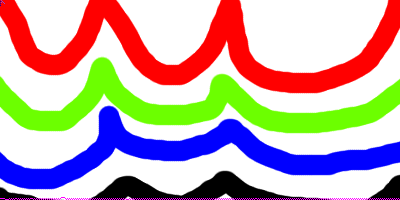
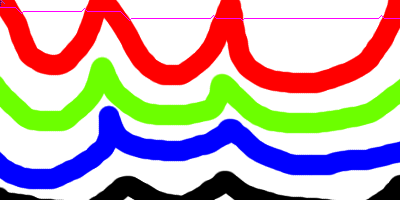
got seam carving working :) at least horizontally :)

diff --git a/monkey/imagematrix.go b/monkey/imagematrix.go
@@ -3,7 +3,6 @@ package monkey
 import "image/color"
 import "log"
 import "math"
-import "fmt"
 
 //
 // Point is a particular pixel position in an image
@@ -162,84 +161,6 @@ func (im ImageMatrix) ApplyConvolutionFunction(cm ConvolutionMatrix, conFunc fun
 }
 
 //
-//
-//
-func applyConvolutionToPixel(im ImageMatrix, x int, y int, cmSize int, column []color.RGBA, cm ConvolutionMatrix, conFunc func(ImageMatrix, int, int, int, int, color.RGBA, float64) int) {
-	currentColour := im[x][y]
-	redTotal := 0
-	greenTotal := 0
-	blueTotal := 0
-	weight := 0
-
-	kernelMatrix := im.GetKernelMatrix(x, y, cmSize)
-
-	for i, kernelColumn := range kernelMatrix {
-		for j, kernelPixelColour := range kernelColumn {
-
-			// get the distance of the current pixel compared to the centre of the kernel
-			// the centre one is the one we are modifying and saving to a new image/matrix of course...
-			distance := math.Sqrt(math.Pow(float64(cmSize-i), 2) + math.Pow(float64(cmSize-j), 2))
-
-			// Call the function the user passed and get the return weight of how much influence
-			// it should have over the centre pixel we want to change
-			// We are multipling it by the weight in the convolution matrix as that way you can
-			// control an aspect of the weight through the matrix as well (as well as the function that
-			// we pass in of course :)
-			cmValue := conFunc(im, x, y, i, j, kernelPixelColour, distance) * int(cm[i][j])
-
-			// apply the influence / weight ... (eg. if cmValue was 0, then the current pixel would have
-			// no influence over the pixel we are changing, if it was large in comparision to what we return
-			// for the other kernel pixels, then it will have a large influence)
-			redTotal += int(kernelPixelColour.R) * cmValue
-			greenTotal += int(kernelPixelColour.G) * cmValue
-			blueTotal += int(kernelPixelColour.B) * cmValue
-			weight += cmValue
-		}
-	}
-
-	// If the convolution matrix normalised itself; aka, say it was something like:
-	//                                                                             { 0 -1  0}
-	//                                                                             {-1  4 -1}
-	//                                                                             { 0 -1  0}
-	// then adding the entries (4 + (-1) + (-1) + (-1) + (-1)) results in a zero, in which case we leave
-	// the weights alone (by setting the weight to divide by to 1) (aka, the weights do not have an impact,
-	// but the pixels with a weight more more or less than 0 still do have an impact on the pixel
-	// we are changing of course)
-	if weight == 0 {
-		weight = 1
-	}
-
-	// Normalise the values (based on the weight (total's in the matrix))
-	newRedValue := redTotal / weight
-	newGreenValue := greenTotal / weight
-	newBlueValue := blueTotal / weight
-
-	// If the values are "out of range" (outside the colour range of 0-255) then set them to 0 (absence of that
-	// colour) if they were negative or 255 (100% of that colour) if they were greater than the max allowed.
-	if newRedValue < 0 {
-		newRedValue = 0
-	} else if newRedValue > 255 {
-		newRedValue = 255
-	}
-
-	if newGreenValue < 0 {
-		newGreenValue = 0
-	} else if newGreenValue > 255 {
-		newGreenValue = 255
-	}
-
-	if newBlueValue < 0 {
-		newBlueValue = 0
-	} else if newBlueValue > 255 {
-		newBlueValue = 255
-	}
-
-	// Assign the new values to the pixel in the column 'column' at position y
-	column[y] = color.RGBA{uint8(newRedValue), uint8(newGreenValue), uint8(newBlueValue), currentColour.A}
-	// fmt.Printf("[%v,%v] %v => %v\n", x, y, currentColour, column[y])
-}
-
-//
 // GetWidth returns the height of the image
 //
 func (im ImageMatrix) GetWidth() int {
@@ -255,54 +176,52 @@ func (im ImageMatrix) GetHeight() int {
 
 //
 // SeamCarveHorizontal will carve the imagematrix by 1 pixel horizontally
+// *****************************************************************************
+// *****************************************************************************
+// TODO: We need to make this generic and do hozizontal and vertical of course, but for now we have just done
+//       it this way to test it out...
+//       Also, currently we colour the seam pink, but we should delete the seam from the image (carve it,
+//       as "seam carving" implies)
+//       Also, the depth is currently hardcoded, it should be possible to change this - but we are laving
+//       it hardcoded for now because if we enter larger numbers, it can take a long long time to process...
+// *****************************************************************************
+// *****************************************************************************
 //
 func (im ImageMatrix) SeamCarveHorizontal() ImageMatrix {
 	height := im.GetHeight()
 	width := im.GetWidth()
 
-	depth := 5
+	depth := 3
 	var seam Path
 
 	var startingPathOptions []Path
 	var paths []Path
 
-	for j := 0; j < height - 1; j++ {
-		paths = im.getPathsHorizontal(Path{Point{0,j}}, depth)
-		path := im.getLowestEnergyPath(paths)
+	// get the starting seam by going through all options that start in the first column (x=0) and getting
+	// the best possible path to start with
+	for j := 0; j < height; j++ {
+		paths = im.GetPathsHorizontal(Path{Point{0,j}}, depth)
+		path := im.GetLowestEnergyPath(paths)
 		startingPathOptions = append(startingPathOptions, path)
 	}
 
-	// // paths := im.getPathsHorizontal(Path{Point{0, 190}}, depth)
-	// paths := im.getPathsHorizontal(Path{Point{0, 22}}, depth)
+	seam = im.GetLowestEnergyPath(startingPathOptions)
 
-	// for _, p := range paths {
-	// 	debug("Starting Path Options: ", p)
-	// }
-	//
-	// // fmt.Println("Starting path options are: ", paths)
-	// debug("===================================================================================================")
-
-	startingPathOptions = []Path{im.getLowestEnergyPath(paths)}
-
-	seam = im.getLowestEnergyPath(startingPathOptions)
-
+	// while we have not got the end-to-end seam from left to right (till the width of the image), keep adding
+	// to the seam...
 	for len(seam) < width {
-
 		if len(seam)+depth > width {
 			depth = width - len(seam)
 		}
 
-		// debug("========================================", seam)
-
-		paths := im.getPathsHorizontal(seam, depth)
-		lowestEnergyPath := im.getLowestEnergyPath(paths)
+		paths := im.GetPathsHorizontal(seam, depth)
+		lowestEnergyPath := im.GetLowestEnergyPath(paths)
 		seam = lowestEnergyPath
-
 	}
 
-	//
-	newImage := im
 
+	// generate a new image (we don't want to modify the original image)
+	newImage := im
 	for _, point := range seam {
 		newImage[point.x][point.y] = color.RGBA{255, 0, 255, 255}
 	}
@@ -314,14 +233,11 @@ func (im ImageMatrix) SeamCarveHorizontal() ImageMatrix {
 }
 
 //
-// GetEnergyOfPixel returns the "energy" of a pixel - that is, the more different it is from it's surrounding
+// GetEnergyOfPoint returns the "energy" of a pixel - that is, the more different it is from it's surrounding
 // pixels, the higher it's energy
 //
-func (im ImageMatrix) GetEnergyOfPixel(x, y int) float64 {
-
-	// fmt.Println("START", x, y)
+func (im ImageMatrix) GetEnergyOfPoint(x, y int) float64 {
 	cc := im[x][y] // centre colour (the pixel we are trying to get the enery for)
-	// fmt.Println("END")
 
 	kernelMatrix := im.GetKernelMatrix(x, y, 1)
 	numBins := 0 // the number of bins (pixels) we will be comparing our central pixel to...
@@ -339,21 +255,24 @@ func (im ImageMatrix) GetEnergyOfPixel(x, y int) float64 {
 			// We should be doing the weight according to the Alpha channel... the close to 0 it is, the
 			// less the energy should be (as we want transparent pixels to not add much energy at all)
 			numBins++
-			energy += math.Abs(float64(cc.R - c.R))
-			energy += math.Abs(float64(cc.G - c.G))
-			energy += math.Abs(float64(cc.B - c.B))
-			energy += math.Abs(float64(cc.A-c.A)) * 3
+			energy += math.Abs(math.Abs(float64(cc.R) - float64(c.R)))
+			energy += math.Abs(math.Abs(float64(cc.G) - float64(c.G)))
+			energy += math.Abs(math.Abs(float64(cc.B) - float64(c.B)))
+			energy += math.Abs(math.Abs(float64(cc.A) - float64(c.A))) * 3
 		}
+
 	}
 
 	energy = energy / float64(numBins)
+	// debug("Energy of point:", x, y, energy)
 
 	// log.Printf("Energy=%v, Bins=%v x=%v y=%v", energy, numBins, x, y)
 	// debugPrintMatrix(kernelMatrix)
 	return energy
 }
 
-func (im ImageMatrix) getPathsHorizontal(path Path, depth int) []Path {
+func (im ImageMatrix) GetPathsHorizontal(path Path, depth int) []Path {
+	// debug("Need to find next path options for:", path)
 	var paths []Path
 	height := im.GetHeight()
 	width := im.GetWidth()
@@ -362,27 +281,35 @@ func (im ImageMatrix) getPathsHorizontal(path Path, depth int) []Path {
 
 	// debug("x, y", x, y)
 
+	// debug("Path we were passed in is", path)
+
 	if depth == 1 {
 		if x+1 < width {
-			pathWithRightPixel := append(path, Point{x + 1, y})
-			paths = append(paths, pathWithRightPixel)
+			pathWithRightPoint := make(Path, len(path))
+			copy(pathWithRightPoint, path)
+			pathWithRightPoint = append(pathWithRightPoint, Point{x+1,y})
+			paths = append(paths, pathWithRightPoint)
 		}
 
 		if x+1 < width && y-1 >= 0 {
-			pathWithdiagonalUpPixel := append(path, Point{x + 1, y - 1})
-			paths = append(paths, pathWithdiagonalUpPixel)
+			pathWithDiagonalUpPoint := make(Path, len(path))
+			copy(pathWithDiagonalUpPoint, path)
+			pathWithDiagonalUpPoint = append(pathWithDiagonalUpPoint, Point{x+1, y-1})
+			paths = append(paths, pathWithDiagonalUpPoint)
 		}
 
 		if x+1 < width && y+1 < height {
-			pathWithDiagonalDownPixel := append(path, Point{x + 1, y + 1})
-			paths = append(paths, pathWithDiagonalDownPixel)
+			pathWithDiagonalDownPoint := make(Path, len(path))
+			copy(pathWithDiagonalDownPoint, path)
+			pathWithDiagonalDownPoint = append(pathWithDiagonalDownPoint, Point{x+1,y+1})
+			paths = append(paths, pathWithDiagonalDownPoint)
 		}
-
-		// } else if (depth > 1 && x+1 <= width) {
 	} else if depth > 1 {
 		if x+1 < width {
-			pathWithRightPixel := append(path, Point{x + 1, y})
-			rightPaths := im.getPathsHorizontal(pathWithRightPixel, depth-1)
+			pathWithRightPoint := make(Path, len(path))
+			copy(pathWithRightPoint, path)
+			pathWithRightPoint = append(pathWithRightPoint, Point{x + 1, y})
+			rightPaths := im.GetPathsHorizontal(pathWithRightPoint, depth-1)
 
 			for _, rightPath := range rightPaths {
 				paths = append(paths, rightPath)
@@ -390,8 +317,10 @@ func (im ImageMatrix) getPathsHorizontal(path Path, depth int) []Path {
 		}
 
 		if x+1 < width && y-1 >= 0 {
-			pathWithDiagonalUpPixel := append(path, Point{x + 1, y - 1})
-			diagonalUpPaths := im.getPathsHorizontal(pathWithDiagonalUpPixel, depth-1)
+			pathWithDiagonalUpPoint := make(Path, len(path))
+			copy(pathWithDiagonalUpPoint, path)
+			pathWithDiagonalUpPoint = append(pathWithDiagonalUpPoint, Point{x + 1, y - 1})
+			diagonalUpPaths := im.GetPathsHorizontal(pathWithDiagonalUpPoint, depth-1)
 
 			for _, diagonalUpPath := range diagonalUpPaths {
 				paths = append(paths, diagonalUpPath)
@@ -399,8 +328,10 @@ func (im ImageMatrix) getPathsHorizontal(path Path, depth int) []Path {
 		}
 
 		if x+1 < width && y+1 < height {
-			pathWithDiagonalDownPixel := append(path, Point{x + 1, y + 1})
-			diagonalDownPaths := im.getPathsHorizontal(pathWithDiagonalDownPixel, depth-1)
+			pathWithDiagonalDownPoint := make(Path, len(path))
+			copy(pathWithDiagonalDownPoint, path)
+			pathWithDiagonalDownPoint = append(pathWithDiagonalDownPoint, Point{x + 1, y + 1})
+			diagonalDownPaths := im.GetPathsHorizontal(pathWithDiagonalDownPoint, depth-1)
 
 			for _, diagonalDownPath := range diagonalDownPaths {
 				paths = append(paths, diagonalDownPath)
@@ -408,39 +339,33 @@ func (im ImageMatrix) getPathsHorizontal(path Path, depth int) []Path {
 		}
 	}
 
-	// fmt.Println("Returning path", path)
-
 	return paths
 }
 
-func (im ImageMatrix) getEnergyForPath(path Path) float64 {
+func (im ImageMatrix) GetEnergyOfPath(path Path) float64 {
 	pathEnergy := 0.0
 
 	for _, point := range path {
-		pathEnergy += im.GetEnergyOfPixel(point.x, point.y)
+		pathEnergy += im.GetEnergyOfPoint(point.x, point.y)
 	}
 
 	return pathEnergy
 }
 
-func (im ImageMatrix) getLowestEnergyPath(paths []Path) Path {
-
+func (im ImageMatrix) GetLowestEnergyPath(paths []Path) Path {
 	lowestEnergyPath := paths[0]
+	lowestEnergy := im.GetEnergyOfPath(lowestEnergyPath)
 
 	for _, path := range paths {
-		pathEnergy := im.getEnergyForPath(path)
-		// debug("energy for path", pathEnergy)
-		// debug("path is ", path)
-		// debug("energy was", pathEnergy)
-		if pathEnergy < im.getEnergyForPath(lowestEnergyPath) {
+		pathEnergy := im.GetEnergyOfPath(path)
+
+		if pathEnergy < lowestEnergy {
 			lowestEnergyPath = path
+			lowestEnergy = pathEnergy
 		}
+
+
 	}
 
 	return lowestEnergyPath
-
-}
-
-func debug(v ...interface{}) {
-	fmt.Println(v...)
 }

diff --git a/main.go b/main.go
@@ -34,20 +34,20 @@ func main() {
 		monkey := monkey.LoadImageFromFile(filepath.Join(sourceDir, sourceFile))
 		destDir := filepath.Join(autogeneratedDir, sourceFile)
 
-		// runMod(modSwapRGBtoGBR, destDir, monkey.ImageMatrix())
-		// runMod(modGreyscaleAverageWithTranslusence, destDir, monkey.ImageMatrix())
-		// runMod(modBlur, destDir, monkey.ImageMatrix(), 8)
-		// runMod(modBlurWithKernelMethod, destDir, monkey.ImageMatrix(), 8)
-		// runMod(modGaussianBlur, destDir, monkey.ImageMatrix())
-		// runMod(modAverageBlur, destDir, monkey.ImageMatrix())
-		// runMod(modApplyConvolutionWithSampleFunction, destDir, monkey.ImageMatrix())
-		// runMod(modApplyFunctionToEveryPixelExample, destDir, monkey.ImageMatrix())
-		// runMod(modSharpen, destDir, monkey.ImageMatrix())
-		// runMod(modEdgeDetect, destDir, monkey.ImageMatrix())
-		// runMod(modEmboss, destDir, monkey.ImageMatrix())
-		// runMod(modIdentity, destDir, monkey.ImageMatrix())
-		// runMod(modPlayOne, destDir, monkey.ImageMatrix())
-		// runMod(modPlayTwo, destDir, monkey.ImageMatrix())
+		runMod(modSwapRGBtoGBR, destDir, monkey.ImageMatrix())
+		runMod(modGreyscaleAverageWithTranslusence, destDir, monkey.ImageMatrix())
+		runMod(modBlur, destDir, monkey.ImageMatrix(), 8)
+		runMod(modBlurWithKernelMethod, destDir, monkey.ImageMatrix(), 8)
+		runMod(modGaussianBlur, destDir, monkey.ImageMatrix())
+		runMod(modAverageBlur, destDir, monkey.ImageMatrix())
+		runMod(modApplyConvolutionWithSampleFunction, destDir, monkey.ImageMatrix())
+		runMod(modApplyFunctionToEveryPixelExample, destDir, monkey.ImageMatrix())
+		runMod(modSharpen, destDir, monkey.ImageMatrix())
+		runMod(modEdgeDetect, destDir, monkey.ImageMatrix())
+		runMod(modEmboss, destDir, monkey.ImageMatrix())
+		runMod(modIdentity, destDir, monkey.ImageMatrix())
+		runMod(modPlayOne, destDir, monkey.ImageMatrix())
+		runMod(modPlayTwo, destDir, monkey.ImageMatrix())
 		runMod(modSeamCarveHorizontal, destDir, monkey.ImageMatrix())
 	}
 }
